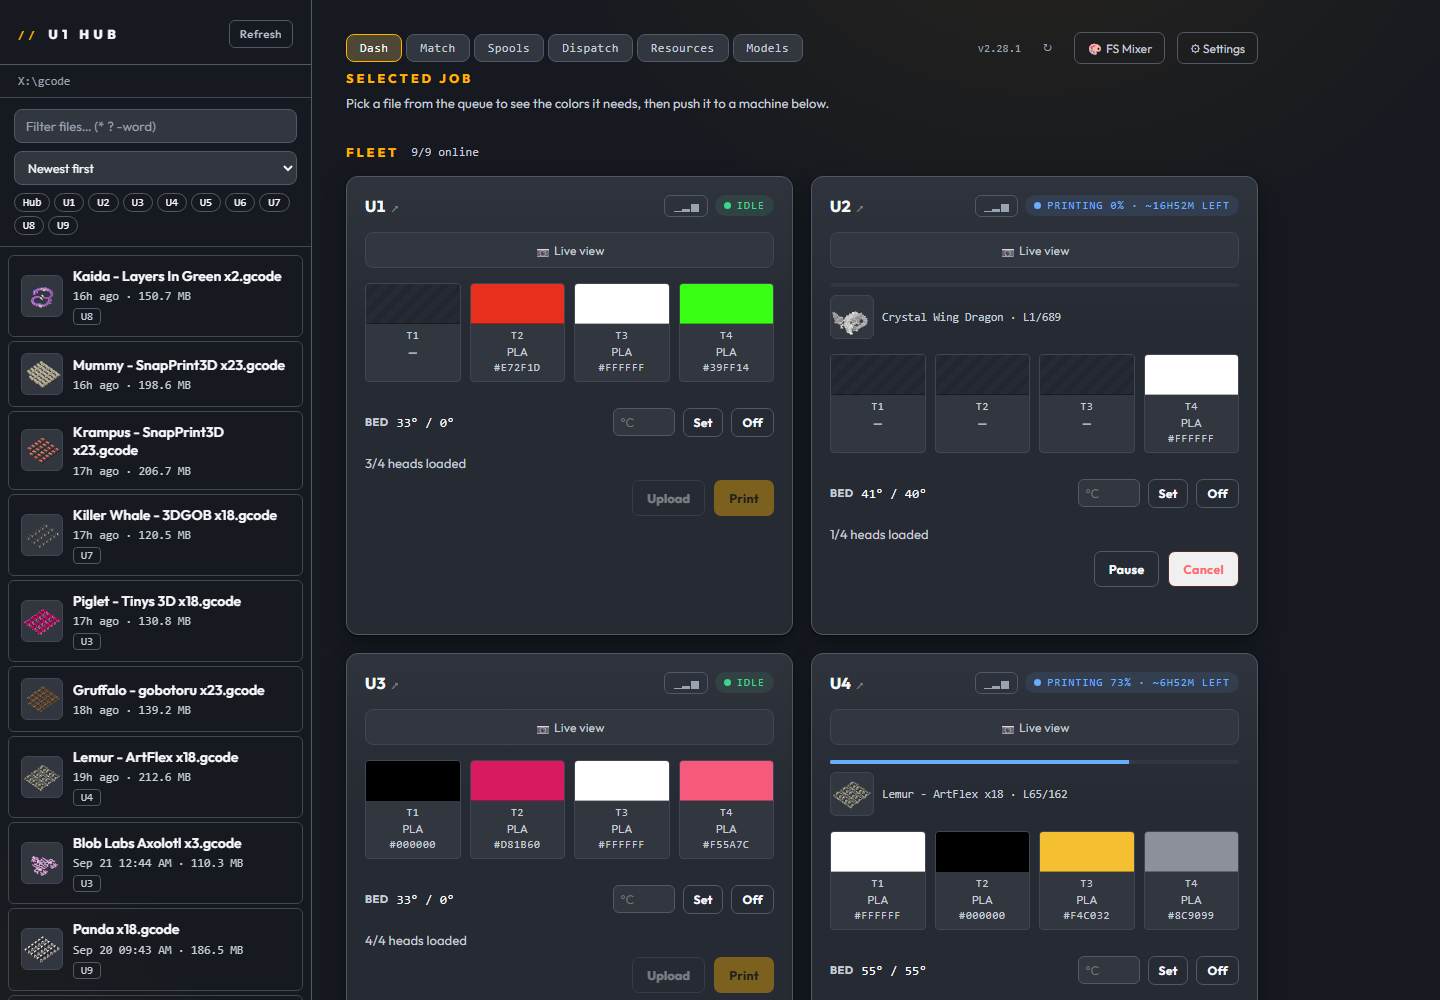
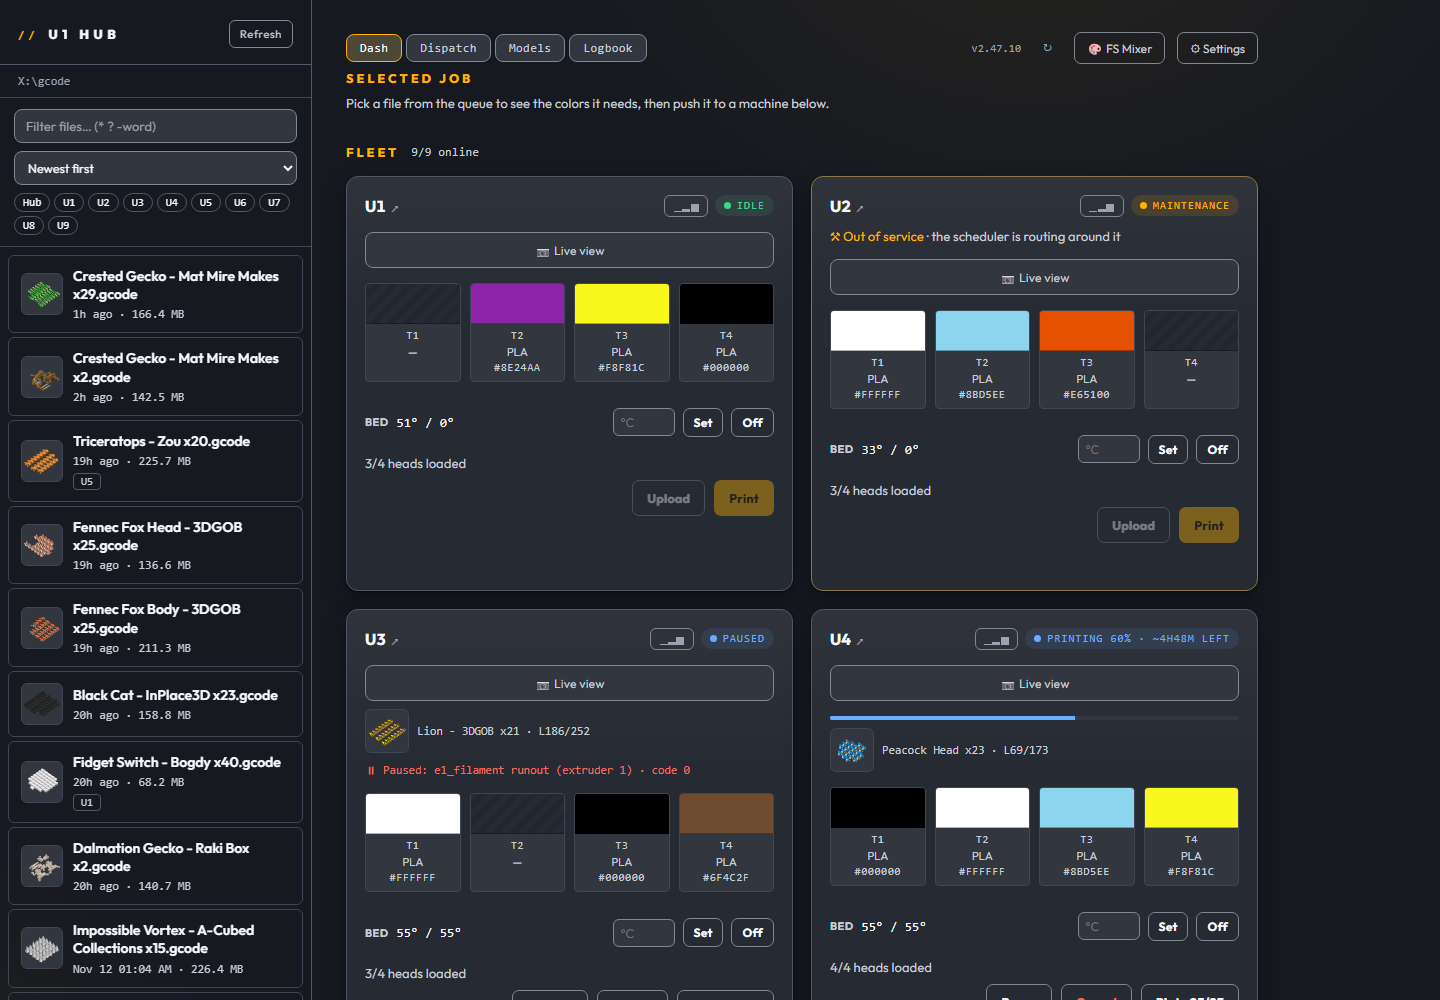
README for 2.47.10: drag on the Dispatch timeline, House rules, fresh shots
- Dispatch: drag a planned print to another printer or spot in line, the
  hand mark, Replan now starts over, near-match roll colors
- House rules card in Settings: blank is off, new installs start with
  everything off, the flexi and painted-support protections, a smaller
  prime tower
- Tuning switch now lives in Settings, House rules (was Models, Folder)
- New shots: dispatch-drag, dispatch-placed, house-rules,
  house-rules-phone; dashboard.png reshot on 2.47.10 (was 2.28.1)

Claude-Session: https://claude.ai/code/session_01W3GYopX82fEnX44cU7aNQG

diff --git a/README.md b/README.md
@@ -13,9 +13,10 @@ You run the Hub on a computer that stays on. Your phone, or any browser, opens
 it like a web page. From there you can see every machine at once, send prints,
 watch cameras, plan your printing week, know what filament to buy before you
 run out, ask what settings a model wants before you slice it, and whether a
-plate is worth printing at all. New in 2.46: a model you mark for print can
-get its settings worked out in the background, so it opens in Orca already
-tuned.
+plate is worth printing at all. New in 2.47: drag a print to where you want
+it on the Dispatch timeline, and set your shop's own House rules for the
+files the AI tunes. The [changelog](docs/CHANGELOG.md) has the details,
+release by release.
 
 Nothing gets installed on the printers. The Hub talks to the software they
 already run, and nothing leaves your network unless you turn remote access on,
@@ -117,8 +118,8 @@ Both apps need to be looking at the same model library, but they don't have
 to reach it the same way - one can use a mapped drive letter and the other the
 network path, or 3MF Explorer can run on a different computer.
 
-**Marked files can come back already tuned.** Tick Tune files when they are
-marked for print under ⚙ Folder (it starts off, because each tune is a paid
+**Marked files can come back already tuned.** Tick Tune marked files in
+Settings, House rules (it starts off, because each tune is a paid
 AI call), and when a model is marked for print the Hub asks for its settings
 in the background, the same way the Settings button below does, and saves
 the answer into a copy of the file. The card shows ✦ tuned and how many
@@ -147,20 +148,42 @@ Orca with those suggestions already filled in, marked as changes so you can
 put any of them back. Your own file is never touched; keep the tuned project
 with Save As in Orca, or let the copy clean itself up after three days.
 
-The AI works inside your shop's rules, and the Hub checks its answer against
-them before anything is written. You set them under ⚙ Folder: an infill
-percentage and pattern (12% gyroid to start; the AI can go higher on a part
-it calls structural) and the lowest layer height (0.16 mm to start). Leave
-either box blank and the AI decides that one. Two rules always hold:
-supports the designer painted stay on, and flexi models keep the designer's
-support settings exactly as they are, because supports grow into the joint
-gaps and fuse them. A model counts as flexi when its name says Flexi or
-Articulated, or when its designer is on
-your flexi designer list, which starts empty for you to fill in. Anything a
-rule held back is listed on the card, so you can see what the AI wanted and
-why it did not get it.
-
 ![Settings for a 3MF: what to set in Orca, what the file had, and why](docs/models-settings.png)
+
+**Set your shop's House rules.** The AI works inside your rules, and the Hub
+checks its answer against them before anything is written. They all live on
+one House rules card in Settings, in groups: quality, walls and infill,
+supports, brim, speed and the prime tower. Each rule says in
+a line what it does to a file. Some favorites: an infill and pattern (the AI
+can still go higher on a part it calls structural), the thinnest layer it may
+pick, an aligned seam, how many walls, and an outer-only brim with a set gap
+from the part. Temperatures and fans are left out on purpose, because they
+depend on the material.
+
+Blank always means off: the AI's suggestion or the file's own setting stands.
+A new install starts with every rule off, so nothing changes until you fill
+one in. A change applies to the next file tuned, and copies already tuned stay
+as they are. The card won't save two rules that fight each other, like a
+layer height under your own minimum.
+
+Two protections are always on, whatever you set: supports the designer
+painted stay on, and flexi models keep the designer's support settings
+exactly as they are, because supports grow into the joint gaps and fuse them.
+A model counts as flexi when its name says Flexi or Articulated, or when its
+designer is on your flexi designer list, which starts empty for you to fill
+in. Anything a rule held back is listed on the model's card, so you can see
+what the AI wanted and why it did not get it.
+
+**A smaller prime tower.** The U1 has a nozzle for every color, so a color
+change only has to clear a little ooze, not flush a shared nozzle. Three
+House rules (prime volume, rib length and tower brim) shrink the tower on
+every file the AI tunes, which saves filament and plate space. They start
+blank, so try a smaller tower on one multicolor plate before you trust it
+everywhere.
+
+![Settings, House rules: the shop's rules for tuned files, with the ones that are on in color](docs/house-rules.png)
+
+<img src="docs/house-rules-phone.png" width="300" alt="The House rules card on a phone">
 
 **Plan your whole printing day.** The Dispatch tab schedules your queue across
 every printer, inside the hours you are actually home to swap plates. It flags
@@ -188,14 +211,36 @@ five minutes apart instead of asking you to clear three at once.
 
 Home early? A printer sitting empty before your hours start says so - idle
 until 4:00 PM, say - and one press starts the next job in line on it right
-now. Replan always works from a fresh plan, never a saved one.
+now.
+
+**Drag a print to where you want it.** On a computer, grab any planned print
+on the timeline and drop it. Drop it on another printer's row and it moves to
+that printer. Drop it between two prints and it takes that spot in line, so
+you can pull a rush job ahead of the others. While you drag, a marker shows
+the printer and about when it would start. A print you place stays put, and
+wears a small ✋ so you can tell: the planner won't move it to save a few
+minutes or a roll change. Undo it from its row, or press Replan, which now
+means start over - it clears every print you placed by hand and builds the
+plan fresh. A drop that can't work (a running print, or a printer that is
+down or offline) snaps back and says why. On a phone the timeline still just
+swipes.
+
+![Dragging a print to another printer: the marker shows where it lands and about when it starts](docs/dispatch-drag.png)
+
+![A print placed by hand wears the ✋ mark and stays where you put it](docs/dispatch-placed.png)
+
+**Fewer needless roll changes.** Dispatch now treats a roll as loaded when
+it is a close match for the color a file asks for, the same way the printer
+card does, so a job goes to the printer that already has its colors instead
+of one that needs a swap.
 
 Getting around the timeline is easy from anywhere on it. It fits in the
 window, with the time ruler pinned to the top and its scrollbar always in
 view. Earlier and later buttons page through the day and now jumps back to
-the present. With a mouse you can drag the lanes, and the arrow keys work
-once you've clicked into it. On a phone, swipe it any direction - it keeps
-your place while it refreshes, so the last printer is always within reach.
+the present. With a mouse you can drag any empty part of the lanes, and the
+arrow keys work once you've clicked into it. On a phone, swipe it any
+direction - it keeps your place while it refreshes, so the last printer is
+always within reach.
 
 ![Dispatch: the plan laid out across the fleet, with the earlier / now / later controls above the timeline](docs/dispatch.png)
 
@@ -416,7 +461,7 @@ network setup.
 **The AI features send data out, and only when you ask.** Pressing an AI
 button asks. So does marking a file for print if you turned tuning on - that
 sends the same brief as the Settings button, once per file, up to the daily
-limit. Tuning starts off, and unticking it under ⚙ Folder stops it
+limit. Tuning starts off, and unticking it in Settings, House rules stops it
 completely. For a gcode:
 a text brief of a few thousand characters - the file name, the slicer
 settings Orca wrote into it, the filaments it was sliced for, the object
